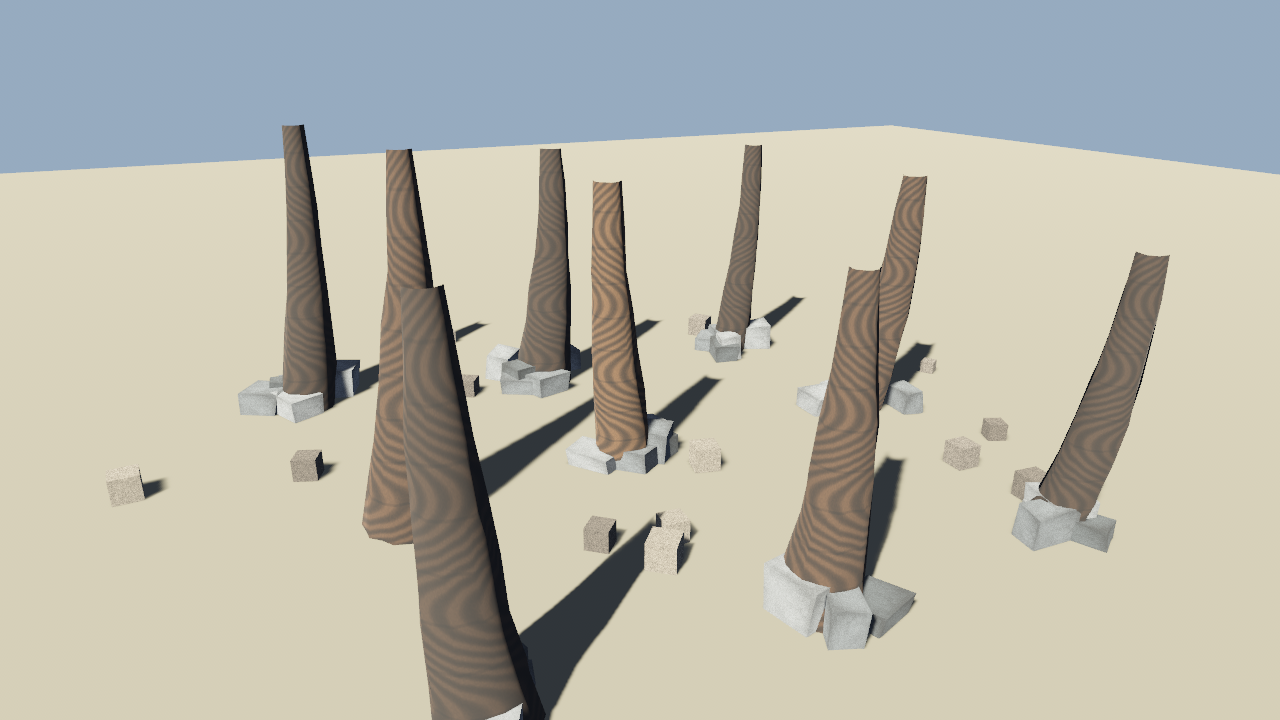
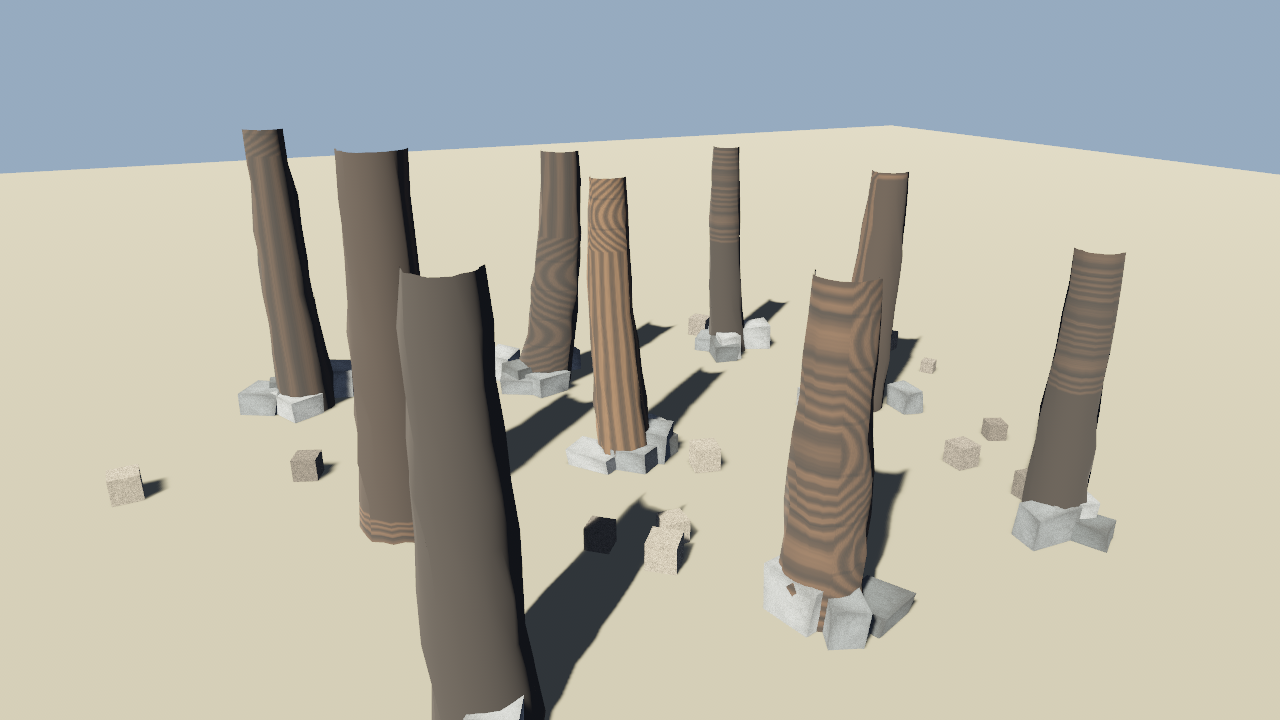
feat(small_grove): 锥度调小 + 弯曲度三档 + 每棵树花纹独立可调
- 锥度：顶径 = 底径 × 60%~75%，不再是针头顶，更接近现实树干比例
- 弯曲度：30% 近似直（0~5cm）/ 50% 略歪（8~22cm）/ 20% 明显弯（24~52cm）
- 弯曲方向：360° 全向（-180°~180°），不再集中半边
- 花纹独立：UV flip×4 + U缩放(0.65~1.6) + V缩放(0.55~1.8) + UV平移，组合几乎不重样
- common.rs 新增 scale_uv / translate_uv / transform_uv 三个 UV 仿射工具
- 更新 demo 截图

Changed region(s): [[0.1875, 0.1528, 0.75, 0.9778], [0.7812, 0.3361, 0.9375, 0.7333], [0.3438, 0.9778, 0.4062, 1.0]]

diff --git a/src/cases/small_grove.rs b/src/cases/small_grove.rs
@@ -10,7 +10,8 @@ use bevy::ecs::message::MessageWriter;
 use bevy::prelude::*;
 
 use destr::common::{
-    add_default_plugins, plain_material, spawn_camera_at, spawn_ground, spawn_sun, tint,
+    add_default_plugins, flip_uv, plain_material, scale_uv, spawn_camera_at, spawn_ground,
+    spawn_sun, tint, translate_uv,
 };
 use destr::demo::{request_exit, request_screenshot, DemoDriver};
 use destr::elements::{
@@ -92,15 +93,41 @@ fn setup(
             let seed = row * 100 + col;
             let h = rng_range(seed, 1, 2.6, 3.9);
             let r0 = rng_range(seed, 2, 0.28, 0.44);
-            let r1 = rng_range(seed, 3, 0.10, 0.16);
-            // bend 方向：θ 从 -40°..+160° 选一个方向，大小 0.15..0.45
-            let theta = rng_range(seed, 4,
-                -40.0_f32.to_radians(), 160.0_f32.to_radians());
-            let bend_mag = rng_range(seed, 5, 0.15, 0.48);
+            // ✅ 修改 1：锥度调小——顶径保持底径的 60%~75%，不再是 0.10 的"针头顶"
+            //     现实中多数树干上下直径差只有 ~25~40%，这样视觉上更自然。
+            let top_ratio = rng_range(seed, 30, 0.60, 0.75);
+            let r1 = r0 * top_ratio;
+
+            // ✅ 修改 2：弯曲度分三档（30% 直 / 50% 略歪 / 20% 明显弯）
+            //           θ 扩成 -180°~180° 全方向，不再缺半边角度
+            let bucket = rng2(seed, 40); // 0..1 区间决定档位
+            let bend_mag = if bucket < 0.30 {
+                rng_range(seed, 41, 0.0, 0.05)         // 直上直下：5cm 内近似直
+            } else if bucket < 0.80 {
+                rng_range(seed, 42, 0.08, 0.22)        // 略歪：8~22 cm
+            } else {
+                rng_range(seed, 43, 0.24, 0.52)        // 明显弯曲
+            };
+            let theta = rng_range(seed, 44,
+                -180.0_f32.to_radians(), 180.0_f32.to_radians());   // 全 360°
             let bend = Vec2::new(theta.cos() * bend_mag, theta.sin() * bend_mag);
 
-            // 放树干：mesh 按 PALETTE 三档棕褐色染色（否则 bark_texture 只有灰度，整体苍白）
-            let mesh = curved_trunk_mesh(h, r0, r1, 18, 7, bend, seed);
+            // 放树干：mesh 按 PALETTE 三档棕褐色染色
+            let mesh = curved_trunk_mesh(h, r0, r1, 24, 9, bend, seed); // 细分加一点更圆滑
+
+            // ✅ 修改 3：花纹每棵独立可调 —— UV 随机：翻转 4 种 + 缩放 (0.65~1.6, 0.55~1.8) + 平移 (0~1 周)
+            //           组合数 4 × 几十² × 几百 = 一眼看过去基本不重样
+            let fx = rng2(seed, 71) < 0.5;
+            let fy = rng2(seed, 72) < 0.5;
+            let mesh = flip_uv(mesh, fx, fy);
+            let su = rng_range(seed, 73, 0.65, 1.6);   // U 方向：围绕树干的"环向纹路密度"
+            let sv = rng_range(seed, 74, 0.55, 1.8);   // V 方向：竖直方向"皴裂纹密度"
+            let mesh = scale_uv(mesh, su, sv);
+            let du = rng_range(seed, 75, 0.0, 1.0);    // 让每棵树的"第几圈纹路对齐"错开
+            let dv = rng_range(seed, 76, 0.0, 1.0);    // 让每棵树的"第几米高度处的断层"错开
+            let mesh = translate_uv(mesh, du, dv);
+
+            // 颜色选三档（之前的逻辑保留）
             let pick = if rng2(seed, 60) < 0.18 {
                 CurvedCylinderTrunk::PALETTE[2]
             } else if rng2(seed, 61) < 0.55 {
@@ -197,7 +224,11 @@ fn demo_exit(time: Res<Time>, stats: Res<GroveStats>, mut exit: MessageWriter<Ap
         println!("  · 树根乱石：共 {} 块 IrregularRock（每棵树下 2~5 块，随机尺寸/旋转/颜色）",
                  stats.rocks);
         println!("  · 地表碎物：共 {} 块 DebrisPiece（整个场景 12×12 m 内随机撒）", stats.litters);
-        println!("  · 单棵树参数范围：高 2.6~3.9 m，底径 0.56~0.88 m，顶径 0.20~0.32 m，弯曲量 0.15~0.48 m");
+        println!("  · 单棵树参数范围：");
+        println!("    - 高 2.6~3.9 m，底径 0.56~0.88 m，顶径 = 底径 × 60%~75%（锥度明显调小）");
+        println!("    - 弯曲度三档：约 30% 近似直（0~5cm），约 50% 略歪（8~22 cm），约 20% 明显弯（24~52 cm）");
+        println!("    - 弯曲方向：360° 全向（不再集中半边）");
+        println!("    - 花纹每棵独立：UV flip×4 / U缩放(0.65~1.6) / V缩放(0.55~1.8) / UV平移(各自错开)");
         request_exit(&mut exit);
     }
 }

diff --git a/src/common.rs b/src/common.rs
@@ -161,3 +161,27 @@ pub fn flip_uv(mut m: Mesh, fx: bool, fy: bool) -> Mesh {
     }
     m
 }
+
+/// 对 UV 做仿射：`(u, v) → (u * su + du, v * sv + dv)`。
+///
+/// 典型用法：
+///   - 让每棵树的树皮花纹密度不同：scale_uv(m, rng(0.7, 1.4), rng(0.6, 1.6))
+///   - 让花纹沿树干高度错开：translate_uv(m, 0, rng(0, 1))
+///   - 两者组合：先 scale 再 translate（顺序：先缩后移更符合直觉）。
+pub fn transform_uv(mut m: Mesh, su: f32, sv: f32, du: f32, dv: f32) -> Mesh {
+    use bevy::mesh::VertexAttributeValues::Float32x2;
+    if let Some(Float32x2(uvs)) = m.attribute(Mesh::ATTRIBUTE_UV_0) {
+        let tx: Vec<[f32; 2]> = uvs
+            .iter()
+            .map(|[u, v]| [u * su + du, v * sv + dv])
+            .collect();
+        m.insert_attribute(Mesh::ATTRIBUTE_UV_0, tx);
+    }
+    m
+}
+
+/// 便捷函数：只缩放 UV（等价 `transform_uv(m, su, sv, 0.0, 0.0)`）。
+pub fn scale_uv(m: Mesh, su: f32, sv: f32) -> Mesh { transform_uv(m, su, sv, 0.0, 0.0) }
+
+/// 便捷函数：只平移 UV（等价 `transform_uv(m, 1.0, 1.0, du, dv)`）。
+pub fn translate_uv(m: Mesh, du: f32, dv: f32) -> Mesh { transform_uv(m, 1.0, 1.0, du, dv) }
